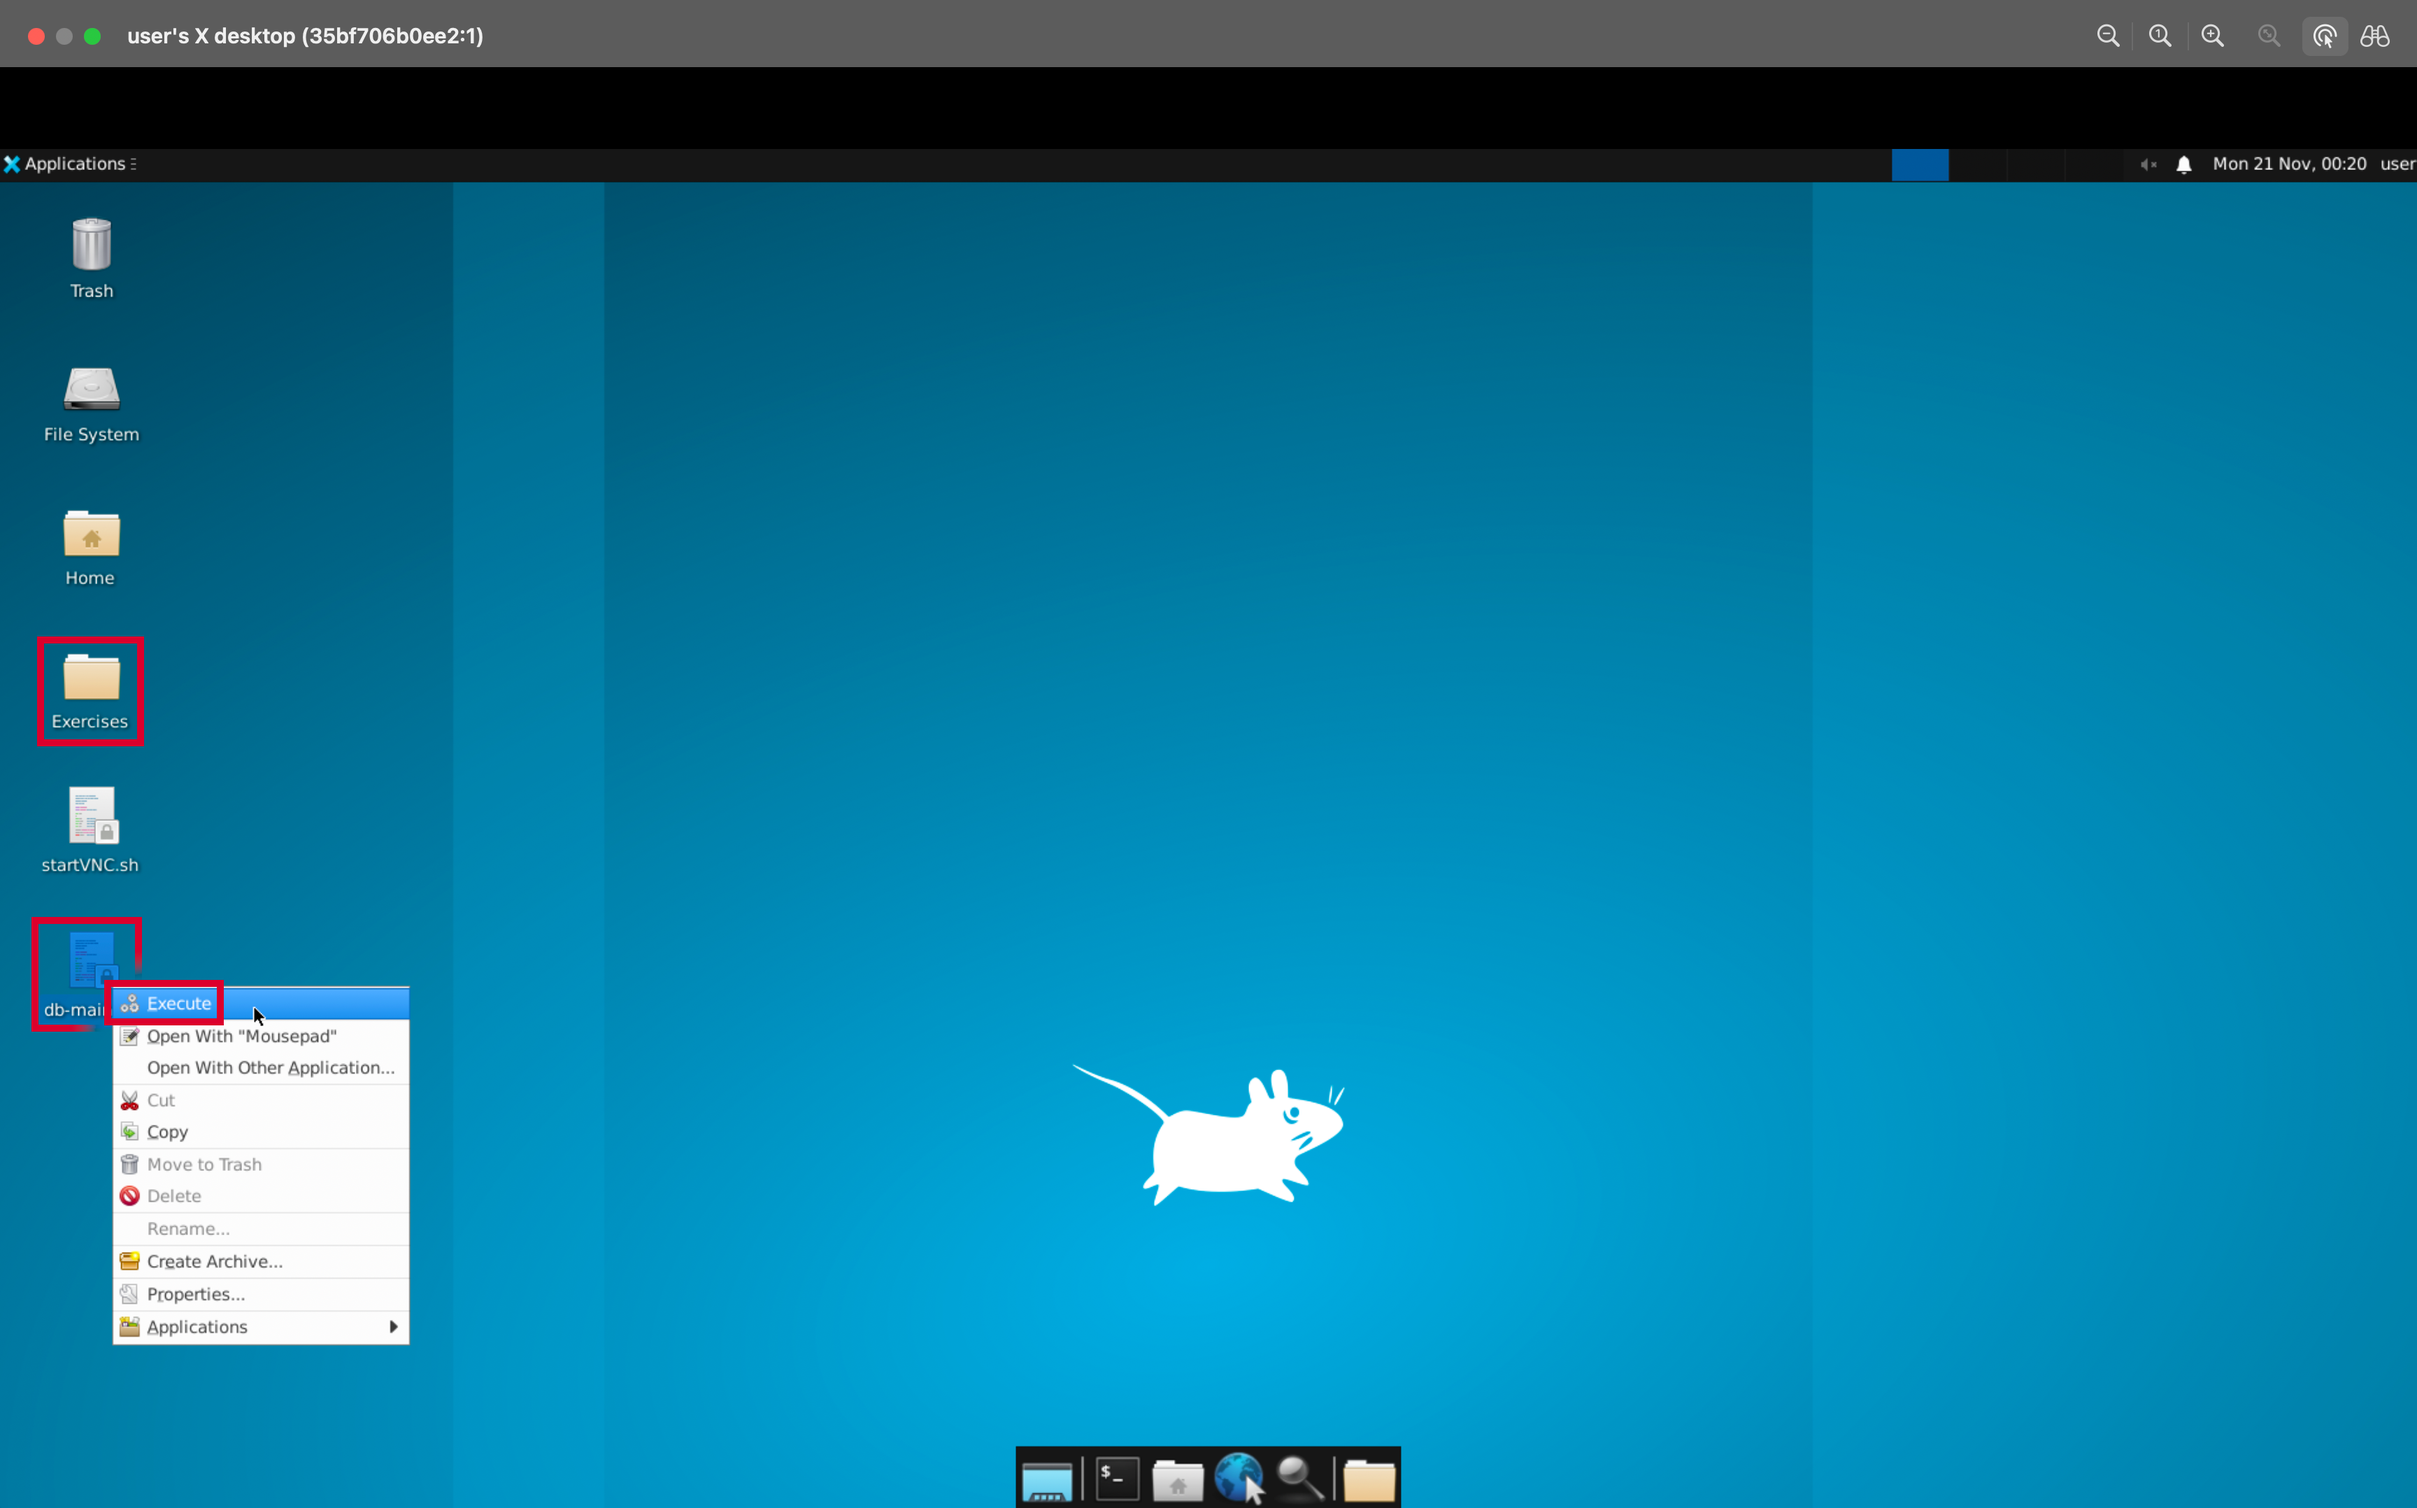
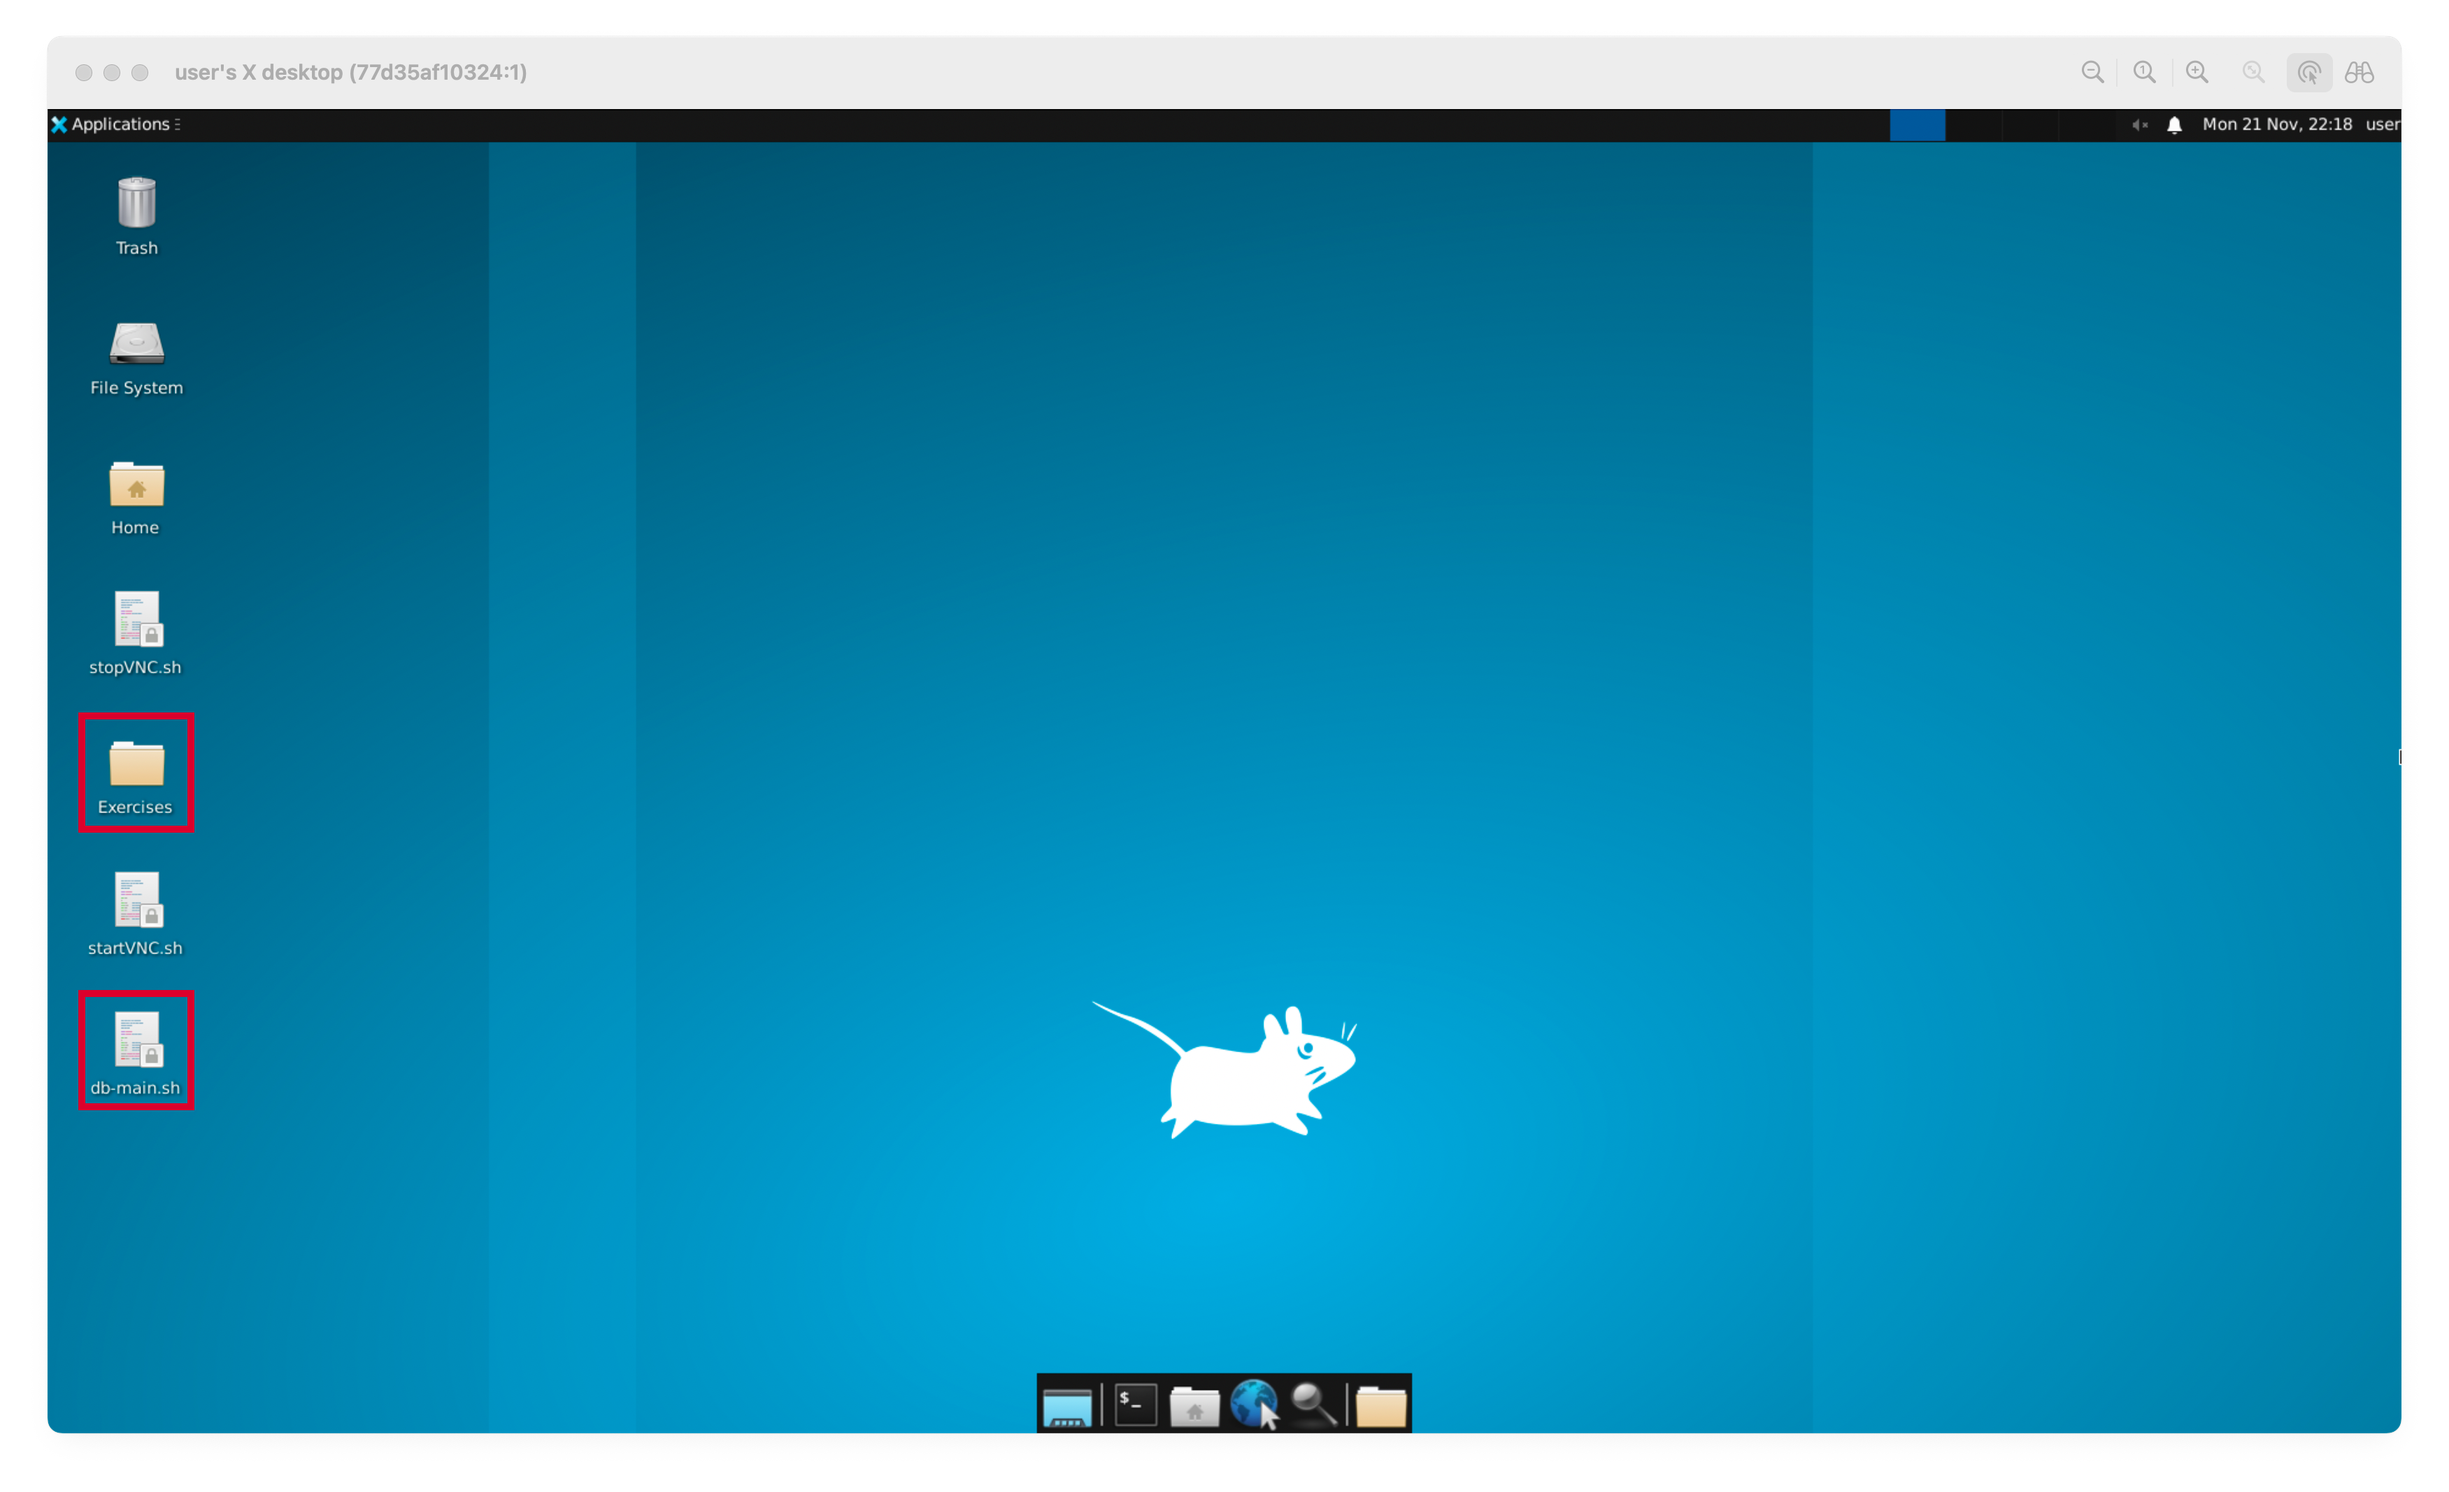
Fixed a bug that could prevent VNC from starting, simplified procedure

Changed region(s): [[0.0, 0.0, 1.0, 1.0], [0.4688, 0.6804, 0.5625, 0.8041]]

diff --git a/README.md b/README.md
@@ -26,9 +26,9 @@ A simple Dockerfile to execute [DB-Main](https://www.db-main.eu) on macOS, M1 or
 		![Docker Desktop window](images/image1.png)
 		2. In the pop-up, open *Optional settings* and write the following information
 			- Container name: DB-Main
-			- Port > Host port: 3000
+			- Port > Host port: ```3000```
 			- Volumes > Host path: the folder you prefer to easily transfer files (the three dots open a Finder windows to easily select the folder)
-			- Volumes > Container path: /home/user/Desktop/Exercises
+			- Volumes > Container path: ```/home/user/Desktop/Exercises```
 			![Container configurations](images/image2.png)
 		3. Click *Run*
 5. If you  want, you can delete the folder downloaded in point 2
@@ -45,13 +45,15 @@ A simple Dockerfile to execute [DB-Main](https://www.db-main.eu) on macOS, M1 or
 	![Screen Sharing](images/image5.png)
 	![VNC password](images/image6.png)
 7. You can put full screen the new window and... that's it
-	On the Desktop you have the folder *Exercises* and the file *db-main.sh*, right click on it and *Execute*!
+	On the Desktop you have the folder *Exercises* and the file *db-main.sh*, double click on it to start DB-Main!
 	![Desktop](images/image7.png)
 	During execution, you must keep Docker open
 
 ## Stop
 1. Close the programme from the X in the top right-hand corner
-2. Close Screen Sharing
+2. From Desktop, double click on *stopVNC.sh*
+	![Stop VNC](images/image8.png)
+2. Close Screen Sharing (it's normal to see *Reconnecting...*)
 3. Go to Docker and click *Stop*
-	![Stop container](images/image8.png)
+	![Stop container](images/image9.png)
 4. To completely stop Docker, go to the Menu Bar (where there is the Apple logo), click *Docker Desktop* and then *Quit Docker Desktop*
